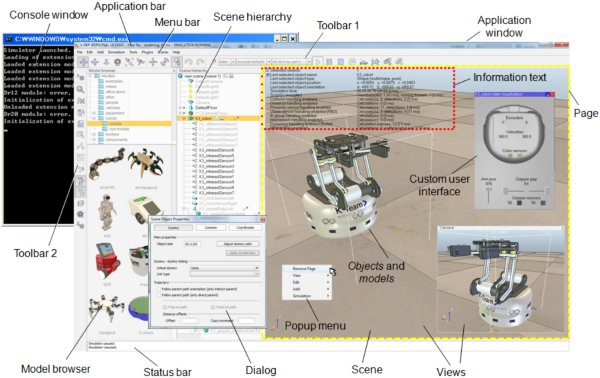
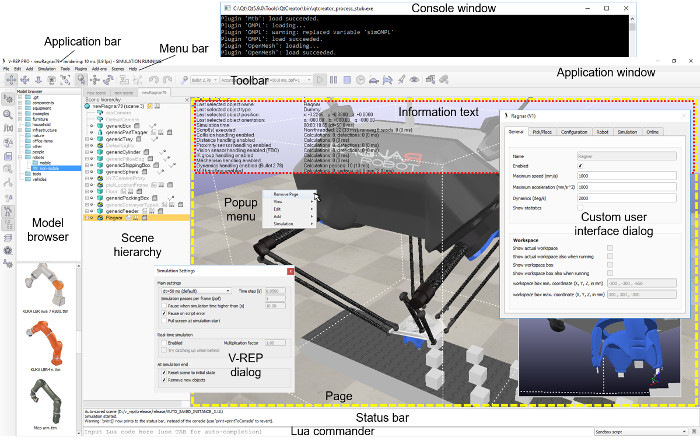
updated, mainly the lua commander related things

diff --git a/en/versionInfo.htm b/en/versionInfo.htm
@@ -43,20 +43,20 @@ Version history:
 </p>
 
 <table class=subsectionTable><tr class=subsectionTd>
- <td class=subsectionTd><a name="3.5.0"></a>V-REP V3.5.0 (January 10th 2018)</td></tr></table> 
+ <td class=subsectionTd><a name="3.5.0"></a>V-REP V3.5.0 (February 5th 2018)</td></tr></table> 
  
 <li>Fixed several bugs. Thanks to Steffen Hemer, Fangyi Zhang, virgile Daugé, Riccardo Spica, Filipe Rocha, Jacob Huesman, Matthew Veres, Robert Lang and Florian Golemo for noticing them or helping to resolve them.</li>
 <li>Switched to Qt 5.9.0 LTS on all platforms.</li>
-<li>From within a script, <em>print()</em> now prints to the status bar, instead of the console. This can be reverted with <em>print=printToConsole</em>.</li>
+<li>Added an <a href="blueZeroPlugin.htm">interface plugin</a> to the <a href="https://github.com/blueworkforce/bluezero">BlueZero middleware</a>. BlueZero (or BØ) is a cross-platform middleware which provides tools for interconnecting pieces of software running in multiple threads, multiple processes and even multiple machines.</li>
+<li>From within a script, <em>print()</em> now prints to the status bar, instead of the console. This can be reverted with <em>print=printToConsole</em>. <em>printf</em>() is now also supported. Both, <em>print</em> and printf will now also print the content of tables.</li>
 <li>Added a Lua commander plugin (read-eval-print loop), that adds a text input to the V-REP status bar, which allows entering and executing Lua code on the fly, like in a terminal. The code can be run in a sandbox script, or any other active script in V-REP</li>
 <li>Moved all the source code items related to V-REP to <a href="https://github.com/CoppeliaRobotics">github</a>.</li>
 <li>Switched to a cleaner API notation for Lua scripts: V-REP function names have moved to the <strong>sim.</strong> namespace (e.g. simGetObjectHandle is now sim.getObjectHandle), plugin function names have moved to specific namespaces (e.g. simExtOMPL_createStateSpace is now simOMPL.createStateSpace). The old API functions remain functional for backward compatibility. Known API functions in embedded scripts are automatically adjusted for that notation change. This makes scenes and models saved with this V-REP version not compatible with older V-REP versions, so make sure to backup your scenes and models. This automatic API function adjustment can be disabled, with  
   <em>changeScriptCodeForNewApiNotation</em>
 in file <em>system/usrset.txt</em>.
-<li>Switched to a cleaner way of calling script code, by using predefined functions (e.g. <em>sysCall_init</em>, <em>sysCall_actuation</em>, etc.). Scripts should now not contain anything else than functions anymore. The old way of calling scripts is however still supported for the sake of backward compatibility.</li>
-<li>New <a href="jointCallbackFunctions.htm">joint callback functions</a> have been implemented and are supported in <a href="childScripts.htm#nonThreaded">non-threaded child scripts</a> and <a href="customizationScripts.htm">customization scripts</a>. The old joint control callback script functionality should not be used anymore and is not accessible anymore via the GUI, but is still operational (you can be temporarily make it accessible again via <em>enableOldJointCallbackScriptEdition</em> in <em>system/usrset.txt</em>)</li>
-<li>A new <a href="contactCallbackFunction.htm">contact  callback function</a> has been implemented and is supported in <a href="childScripts.htm#nonThreaded">non-threaded child scripts</a> and <a href="customizationScripts.htm">customization script</a>. The old contact callback script functionality should not be used anymore and is not accessible anymore via the GUI, but is still operational (you can be temporarily make it accessible again via <em>enableOldCustomContactHandlingEdition</em> in <em>system/usrset.txt</em>)</li>
-<li>Added an <a href="blueZeroPlugin.htm">interface plugin</a> to the <a href="https://github.com/blueworkforce/bluezero">BlueZero middleware</a>. BlueZero (or BØ) is a cross-platform middleware which provides tools for interconnecting pieces of software running in multiple threads, multiple processes and even multiple machines.</li>
+<li>Switched to a cleaner way of calling script code, by using predefined functions (e.g. <em>sysCall_init</em>, <em>sysCall_actuation</em>, etc. Check out <a href="childScripts.htm#nonThreadedChildScriptExample">this example</a>). Scripts should now  contain nothing else than functions anymore. The old way of calling scripts is however still supported for the sake of backward compatibility (but make sure not to mix both methods).</li>
+<li>New <a href="jointCallbackFunctions.htm">joint callback functions</a> have been implemented and are supported in <a href="childScripts.htm#nonThreaded">non-threaded child scripts</a> and <a href="customizationScripts.htm">customization scripts</a>. The old joint control callback script functionality should not be used anymore and is not accessible anymore via the GUI, but is still operational (you can  temporarily make it accessible again via <em>enableOldJointCallbackScriptEdition</em> in <em>system/usrset.txt</em>)</li>
+<li>A new <a href="contactCallbackFunction.htm">contact  callback function</a> has been implemented and is supported in <a href="childScripts.htm#nonThreaded">non-threaded child scripts</a> and <a href="customizationScripts.htm">customization script</a>. The old contact callback script functionality should not be used anymore and is not accessible anymore via the GUI, but is still operational (you can  temporarily make it accessible again via <em>enableOldCustomContactHandlingEdition</em> in <em>system/usrset.txt</em>)</li>
 <li>New widgets and API functions were added to the <a href="customUIPlugin.htm">custom UI</a>.</li>
 <li>Updated the content of v-repNotepad++.zip, which contains all V-REP-related calltips and syntax highlighting keywords for Notepad++.</li>
 <li>Each scene object now also has a unique alternative name, which can be used for custom application, and which doesn't interfere with <a href="accessingGeneralObjects.htm#fromAssociatedCode">V-REP's object handle retrieval for associated code</a>: <a href="regularApi/simGetObjectName.htm">sim.getObjectName</a>, <a href="regularApi/simSetObjectName.htm">sim.setObjectName</a> and <a href="regularApi/simGetObjectHandle.htm">sim.getObjectHandle</a> can now be used with <em>sim.handleflag_altname</em>.</li>

diff --git a/en/userInterface.htm b/en/userInterface.htm
@@ -78,6 +78,7 @@ In following section, a brief description will be given of the application windo
 <li> <strong>views</strong>: there can be an unlimited number of views contained in a page. A view is used to display the scene (itself containing an environment and objects), seen through a <a href="viewableObjects.htm">viewable object</a> (e.g. <a href="cameras.htm">cameras</a>, <a href="graphs.htm">graphs</a> or <a href="visionSensors.htm">vision sensors</a>).</li>
 <li><a name="InformationText"></a> <strong>information text</strong>: the information text displays information related to current object/item selection and to running simulation states or parameters. The text display can be toggled with one of the two small buttons on the upper left side of a page. The other button can be used to toggle a white background, giving a better contrast depending on the background color of a scene.</li>
 <li><a name="statusBar"></a> <strong>status bar</strong>: the status bar displays information related to performed operations, commands, and also displays error messages from the Lua interpreter. From within a <a href="scripts.htm">script</a> the user can also output strings to the status bar with the <a href="regularApi/simAddStatusbarMessage.htm">sim.addStatusbarMessage</a> function. The status bar displays  only two lines by default, but it can be resized using its horizontal separation handle.</li>
+<li><a name="luaCommander"></a> <strong>Lua commander</strong>: a read-eval-print loop, that adds a text input to the V-REP status bar, allowing to enter and execute Lua code on the fly, like in a terminal. The code can be run in a sandbox script, or any other active script in V-REP.</li>
 <li> <strong>custom user interfaces</strong>: <a href="customUIPlugin.htm">custom user interfaces</a> are user-defined UI surfaces that can be used to display information (text, images, etc.) or a custom dialog, allowing to interact with the user in a customized way. </li>
 <li> <strong>popup menu</strong>: popup menus are the menus that appear after a right mouse button click. To activate a popup menu, make sure the mouse doesn't move during the click operation, otherwise the camera rotation mode may be activated (see the <a href="cameras.htm">camera section</a> for more details). Each surface within the application window (e.g. scene hierarchy view, page, view, etc.) may trigger a different popup menu (context-sensitive). The content of popup menus may also change depending on the current simulation state or edit mode. Most popup menu function can also be accessed through the menu bar, except for the view-menu item that only appears when the popup menu is activated on a view or page.</li>
 

diff --git a/en/childScripts.htm b/en/childScripts.htm
@@ -53,6 +53,7 @@
 <p>Imagine an example of a simulation model representing an automatic door: a proximity sensor in the front and the back allows detecting an approaching person. When the person is close enough, the door opens automatically. Following code shows a typical non-threaded child script  illustrating above example:<br>
 </p>
 
+<a name="nonThreadedChildScriptExample"></a>
 <pre class=lightRedBox>
 function <strong>sysCall_init</strong>()
     sensorHandleFront=sim.getObjectHandle("DoorSensorFront")

diff --git a/en/shortcuts.htm b/en/shortcuts.htm
@@ -41,6 +41,8 @@
 <li><strong>CTRL+D</strong>: open the object property dialog</li>
 <li><strong>CTRL+G</strong>: open the calculation module dialog</li>
 <li><strong>CTRL+B</strong>: adjust the view to fit selected objects, or the whole scene if no object is selected. The focus needs to be on a view.</li>
+<li><strong>CTRL+ALT+C</strong>: set focus on the Lua commander</li>
+<li><strong>CTRL+L</strong>: clear status bar (when focus is on the Lua commander)</li>
  
  <br> 
  <br> 
